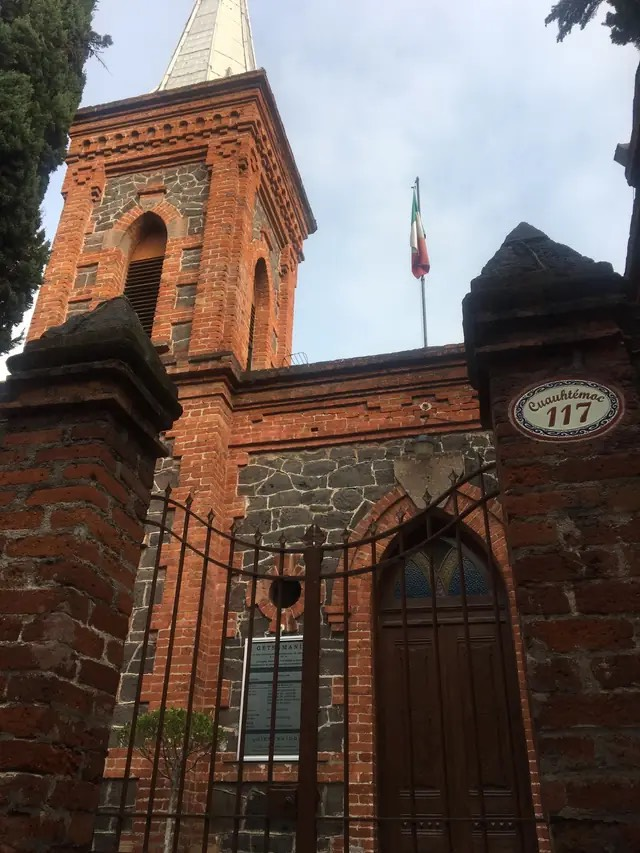
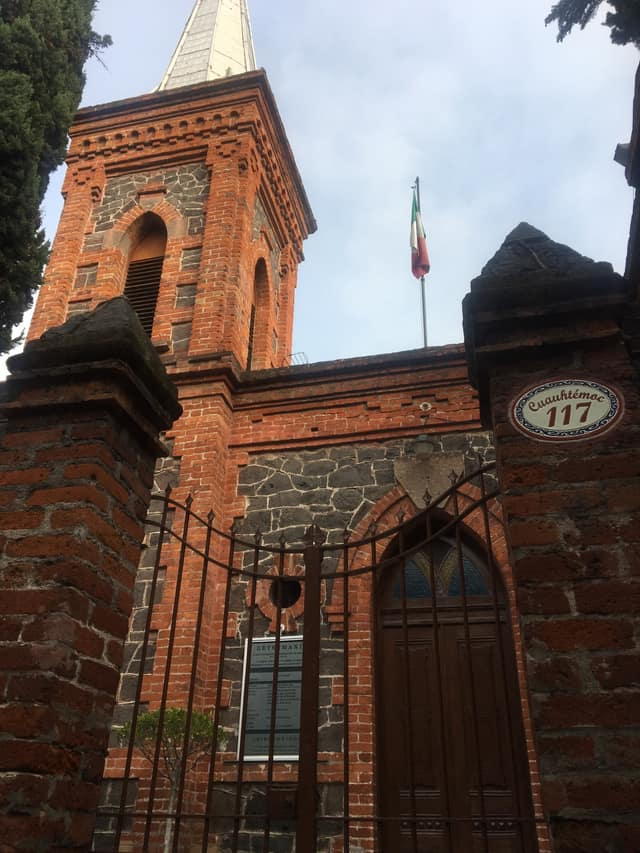
update movile load and home image

Changed region(s): [[0.8125, 0.4572, 0.8438, 0.4877]]

diff --git a/public/styles/global.css b/public/styles/global.css
@@ -84,7 +84,7 @@ main { min-width: 0; max-width: 100%; overflow-x: clip; }
 .home-hero-image::after { content: ""; position: absolute; inset: 0; background: linear-gradient(90deg, rgba(9,25,38,.2), transparent 42%), linear-gradient(0deg, rgba(9,25,38,.28), transparent 32%); }
 .home-hero-image picture,.sermon-invitation-media picture,.visit-cta-media picture { display: block; width: 100%; height: 100%; }
 .home-hero-image > picture { position: absolute; inset: 0; }
-.home-hero-image img { width: 100%; height: 100%; object-fit: cover; }
+.home-hero-image img { width: 100%; height: 100%; object-fit: cover; object-position: center 28%; }
 .home-hero-image img { animation: image-enter 1.1s ease both; transition: transform 1.2s ease; }
 .home-hero-image:hover img { transform: scale(1.025); }
 .home-hero-image figcaption { position: absolute; right: 14px; bottom: 10px; z-index: 2; color: rgba(255,255,255,.75); font-size: 8px; }
@@ -238,7 +238,7 @@ main { min-width: 0; max-width: 100%; overflow-x: clip; }
 .visit-banner p:not(.overline) { margin: 22px 0 0; color: #c9d9ff; }
 .visit-cta { margin-top: 0; display: grid; grid-template-columns: 1fr 1fr; min-height: 480px; color: white; background: #1a2420; width: 100%; max-width: 100%; }
 .visit-cta-media { margin: 0; min-width: 0; min-height: 100%; overflow: hidden; }
-.visit-cta-media img { width: 100%; height: 100%; min-height: 480px; object-fit: cover; opacity: .88; }
+.visit-cta-media img { width: 100%; height: 100%; min-height: 480px; object-fit: cover; object-position: center 28%; opacity: .88; }
 .visit-cta-copy { padding: 70px var(--page-pad) 70px 48px; display: flex; flex-direction: column; justify-content: center; background: linear-gradient(145deg, #252b28, #3a3028); min-width: 0; }
 .visit-cta-copy .overline { color: #d9bf7d; }
 .visit-cta-copy h2 { margin: 0; color: white; font: 600 clamp(40px, 4vw, 58px)/1.08 var(--serif); }
@@ -862,7 +862,7 @@ body.resource-open { overflow: hidden; }
     .document-hero h1 { font-size: clamp(28px, 8vw, 42px); overflow-wrap: anywhere; }
     .featured-book-copy h2, .annual-reader-intro h2, .youtube-library-head h2, .church-hymn-heading h2 { font-size: clamp(28px, 7vw, 40px); overflow-wrap: anywhere; }
     .home-hero h1 { max-width: 100%; font-size: clamp(36px, 12vw, 58px); line-height: 1.02; overflow-wrap: anywhere; white-space: normal; }
-    .home-hero-copy { padding-top: 56px; padding-bottom: 46px; }.home-hero-image { min-height: 0; aspect-ratio: 3 / 4; max-height: 720px; }.subpage-hero,.page-hero { min-height: auto; padding-top: 52px; padding-bottom: 52px; }.page-hero-split { padding-top: 0; padding-bottom: 0; }.channel-section,.youtube-library { padding: var(--page-gutter); }.visit-banner { padding: 42px 28px; }
+    .home-hero-copy { padding-top: 56px; padding-bottom: 46px; }.home-hero-image { min-height: 0; aspect-ratio: 3 / 4; max-height: 640px; }.home-hero-image img { object-position: center 22%; }.subpage-hero,.page-hero { min-height: auto; padding-top: 52px; padding-bottom: 52px; }.page-hero-split { padding-top: 0; padding-bottom: 0; }.channel-section,.youtube-library { padding: var(--page-gutter); }.visit-banner { padding: 42px 28px; }
     .belief-pillars,.belief-pillars--five { grid-template-columns: 1fr; }
     .belief-pillars--five { gap: 12px; }
     .belief-pillars--five article { min-height: 0; align-items: center; text-align: center; padding: 22px 18px; }

diff --git a/public/styles/fonts.css b/public/styles/fonts.css
@@ -1,13 +1,4 @@
-/* Tipografías locales (sin Google Fonts): más fiable en datos móviles. */
-
-@font-face {
-  font-family: 'Manrope';
-  font-style: normal;
-  font-weight: 400 700;
-  font-display: swap;
-  src: url('/fonts/manrope-400-latin-ext.woff2') format('woff2');
-  unicode-range: U+0100-02BA, U+02BD-02C5, U+02C7-02CC, U+02CE-02D7, U+02DD-02FF, U+0304, U+0308, U+0329, U+1D00-1DBF, U+1E00-1E9F, U+1EF2-1EFF, U+2020, U+20A0-20AB, U+20AD-20C0, U+2113, U+2C60-2C7F, U+A720-A7FF;
-}
+/* Tipografías locales. Solo subconjunto latin (incluye acentos del español). */
 
 @font-face {
   font-family: 'Manrope';
@@ -15,16 +6,6 @@
   font-weight: 400 700;
   font-display: swap;
   src: url('/fonts/manrope-400-latin.woff2') format('woff2');
-  unicode-range: U+0000-00FF, U+0131, U+0152-0153, U+02BB-02BC, U+02C6, U+02DA, U+02DC, U+0304, U+0308, U+0329, U+2000-206F, U+20AC, U+2122, U+2191, U+2193, U+2212, U+2215, U+FEFF, U+FFFD;
-}
-
-@font-face {
-  font-family: 'Source Serif 4';
-  font-style: italic;
-  font-weight: 500;
-  font-display: swap;
-  src: url('/fonts/sourceserif4-500-italic-latin-ext.woff2') format('woff2');
-  unicode-range: U+0100-02BA, U+02BD-02C5, U+02C7-02CC, U+02CE-02D7, U+02DD-02FF, U+0304, U+0308, U+0329, U+1D00-1DBF, U+1E00-1E9F, U+1EF2-1EFF, U+2020, U+20A0-20AB, U+20AD-20C0, U+2113, U+2C60-2C7F, U+A720-A7FF;
 }
 
 @font-face {
@@ -33,16 +14,6 @@
   font-weight: 500;
   font-display: swap;
   src: url('/fonts/sourceserif4-500-italic-latin.woff2') format('woff2');
-  unicode-range: U+0000-00FF, U+0131, U+0152-0153, U+02BB-02BC, U+02C6, U+02DA, U+02DC, U+0304, U+0308, U+0329, U+2000-206F, U+20AC, U+2122, U+2191, U+2193, U+2212, U+2215, U+FEFF, U+FFFD;
-}
-
-@font-face {
-  font-family: 'Source Serif 4';
-  font-style: normal;
-  font-weight: 600;
-  font-display: swap;
-  src: url('/fonts/sourceserif4-600-latin-ext.woff2') format('woff2');
-  unicode-range: U+0100-02BA, U+02BD-02C5, U+02C7-02CC, U+02CE-02D7, U+02DD-02FF, U+0304, U+0308, U+0329, U+1D00-1DBF, U+1E00-1E9F, U+1EF2-1EFF, U+2020, U+20A0-20AB, U+20AD-20C0, U+2113, U+2C60-2C7F, U+A720-A7FF;
 }
 
 @font-face {
@@ -51,5 +22,4 @@
   font-weight: 600;
   font-display: swap;
   src: url('/fonts/sourceserif4-600-latin.woff2') format('woff2');
-  unicode-range: U+0000-00FF, U+0131, U+0152-0153, U+02BB-02BC, U+02C6, U+02DA, U+02DC, U+0304, U+0308, U+0329, U+2000-206F, U+20AC, U+2122, U+2191, U+2193, U+2212, U+2215, U+FEFF, U+FFFD;
 }

diff --git a/src/utils/assets.ts b/src/utils/assets.ts
@@ -1,1 +1,4 @@
-export const assetVersion = Date.now().toString(36);
+export const assetVersion =
+  process.env.GITHUB_SHA?.slice(0, 8) ||
+  process.env.CF_PAGES_COMMIT_SHA?.slice(0, 8) ||
+  '2026-08-11';
